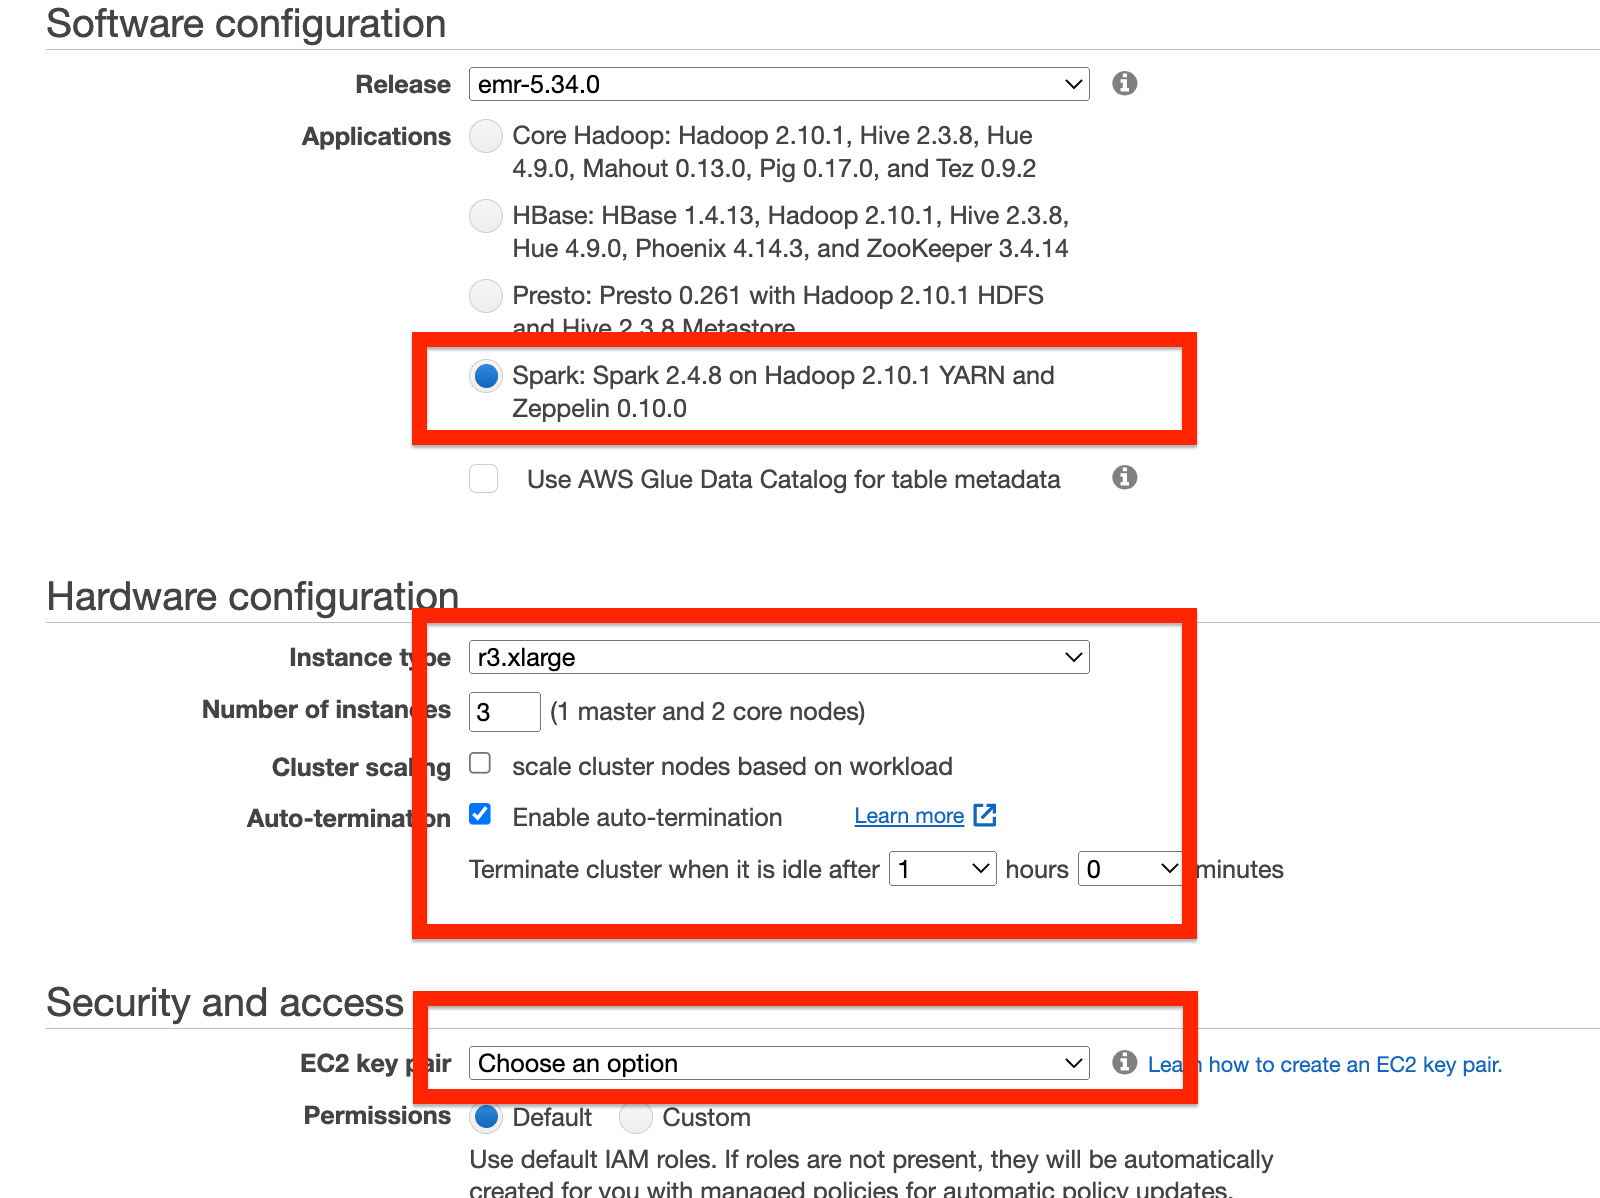
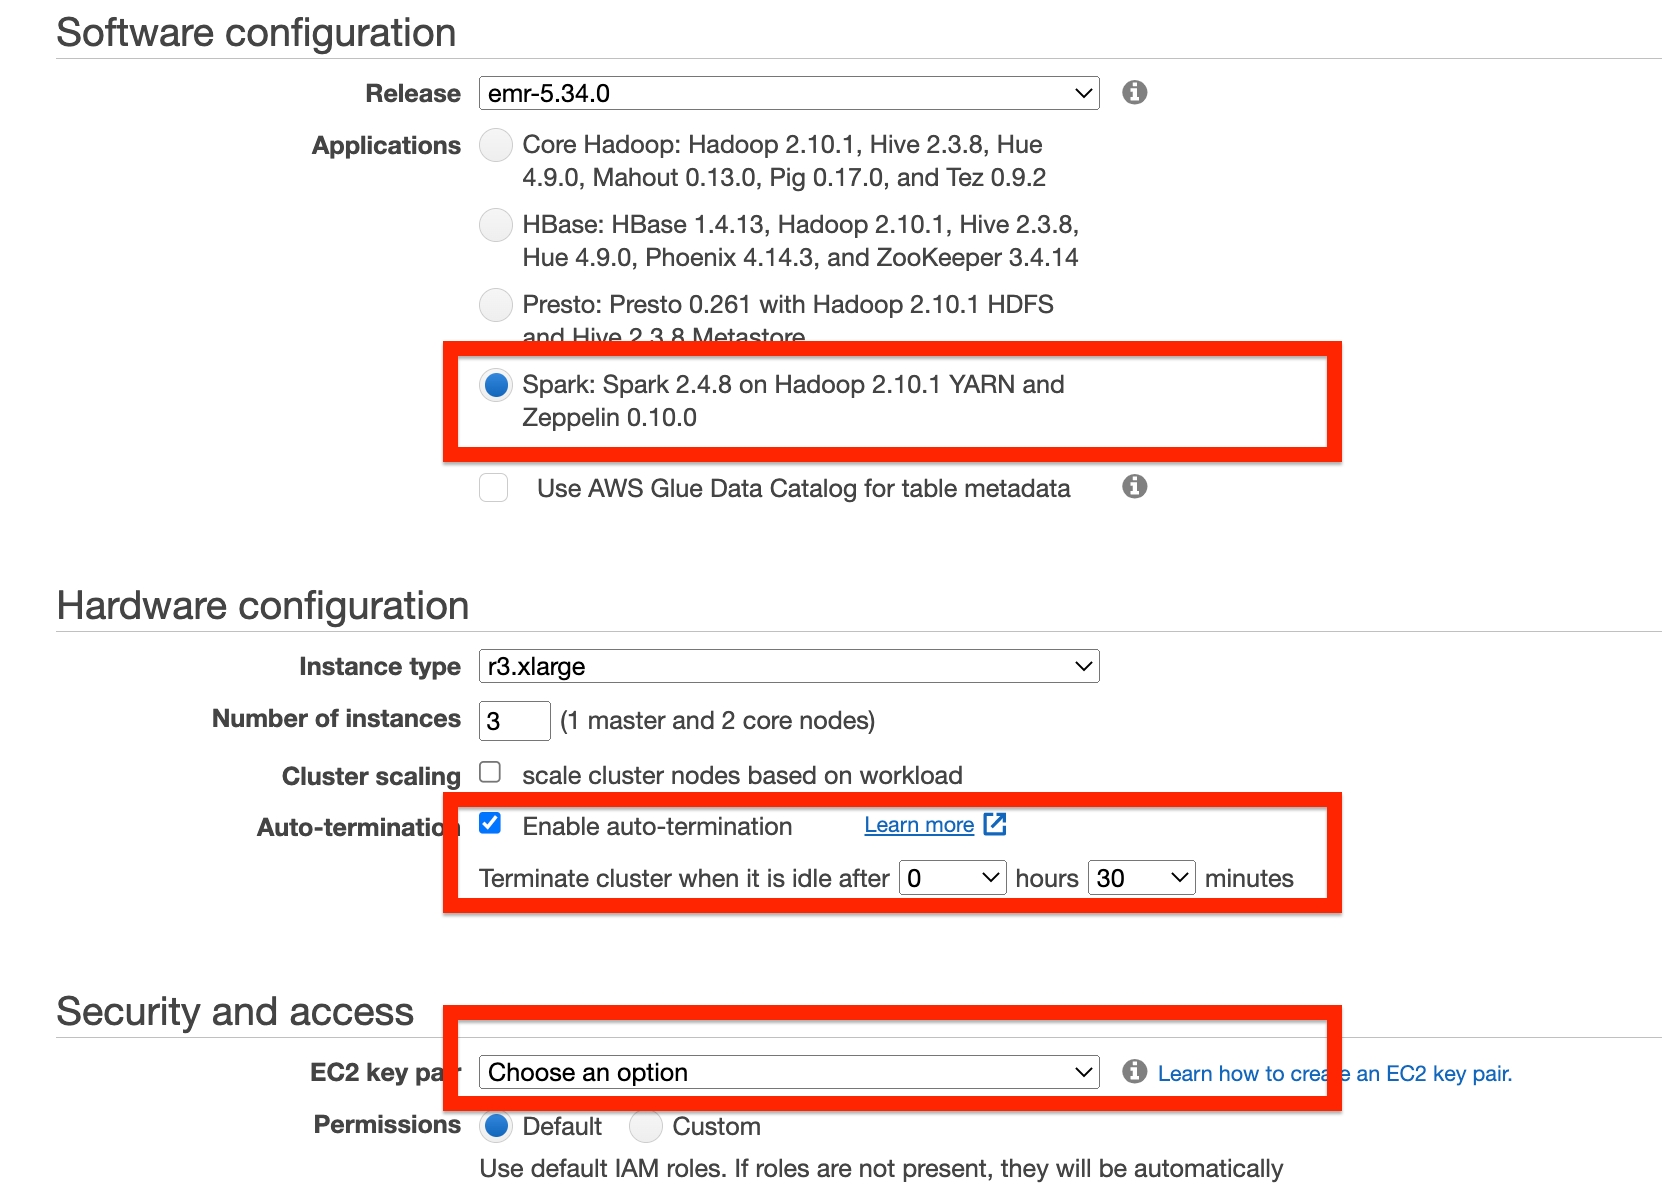
updated setup guide

Changed region(s): [[0.0312, 0.4664, 0.9375, 1.0], [0.0312, 0.0, 0.8125, 0.4353]]

diff --git a/docs/cloud/aws/aws-emr-spark-bigdata.md b/docs/cloud/aws/aws-emr-spark-bigdata.md
@@ -44,7 +44,7 @@
 
 - Cluster Name: 사용할 클러스터 이름
 - Software Configuration : 데이터분석 엔진을 선택, 실습에서는 `Spark`
-- Hardware Configuration : 데이터분석 엔진 Worker 노드의 사이즈 결정, 비용 절감을 위해 auto-termination 활성화
+- Hardware Configuration : 데이터분석 엔진 Worker 노드의 사이즈 결정, 비용 절감을 위해 auto-termination 활성화 (idle after 1 hr -> 변경: `30mins`)
 - Security and Access: EMR 서버에 접속이 필요하지 않으면 key pair에 대해서 Proceed without an EC2 key pair 선택, SSH 접속을 원할 경우 본인의 EC2 key pair 지정
 
 ### EMR Cluster의 원격 접근을 위해 Security Group 설정
@@ -76,7 +76,7 @@
 포트는 Master public DNS 엔드포인트에 8890 포트로 접속
 ![access-emr-zepplin-console](assets/access-emr-zepplin-console.png)
 
-## 3. 데이터 분석 진행
+## 3. 데이터 분석
 
 샘플 데이터: 미국 교통 정보 데이터([항공]((https://catalog.data.gov/dataset/airline-on-time-performance-and-causes-of-flight-delays-on-time-data))) 약 80GB
 ![create-zepplin-note](assets/create-zepplin-note.png)
